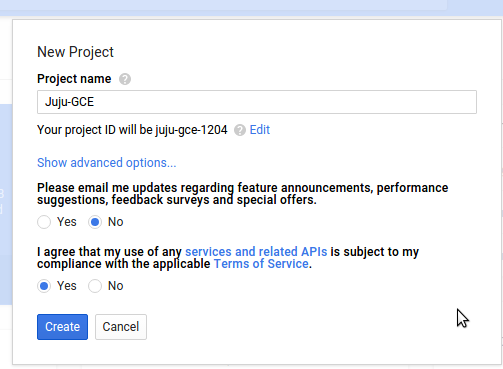
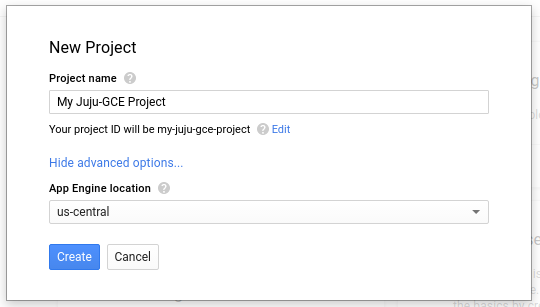
updated steps and graphics following changes at GCE

diff --git a/src/en/help-google.md b/src/en/help-google.md
@@ -33,18 +33,17 @@ manually in the GCE dashboard to prepare your account to work with Juju.
 
 Firstly, you should create a new project for Juju. If you have already used GCE 
 your existing projects will be listed in the pull-down menu with one being
-selected as your currently active project (here 'Juju-GCE'). The dialog is
-found at the top-right corner:
+selected as your currently active project (here 'My First Project'). The dialog is
+found near the top-right corner:
 
 ![create_gce_project_dropdown](./media/config-gce-new_project_dropdown.png)
 
-Enter some details. If you have already created a project in the past you
-may not see the extra two questions shown below:
+Enter a project name (here 'My Juju-GCE Project'):
 
 ![create_gce_project_details](./media/config-gce-first_project_create.png)
 
-The *project id* (used later) will be generated automatically. Use the 'Edit'
-button to change it.
+The *project id* (used later) will be generated automatically. Click 'Edit'
+to change it.
 
 ### Enable the GCE API
 
@@ -53,23 +52,28 @@ for Juju to communicate with it. This is done automatically if a "billing
 method" has been set up. By following the below steps you will discover whether
 you need to set up billing or not.
 
-At the top-left of the web UI there is an icon representing 'Product &
-services'. It is denoted by this icon:
+At the top-left of the web UI there is an icon representing 'Products &
+services'. It is denoted by this icon, next to the 'Google Cloud Platform'
+title:
 
 ![Product & services icon](./media/config-gce-product_services_icon.png)
 
 Click through and select 'API Manager'. By default you will be on the 'Overview'
-screen, it will show:
+screen, it will show this across the top:
 
 ![API Manager screen](./media/config-gce-api_manager.png)
 
-Select 'Compute Engine API' to get:
+Click '+Enable API':
+
+![Enable API](./media/config-gce-enable-api.png)
+
+From the list of available APIs, select 'Compute Engine API':
 
 ![Compute Engine API](./media/config-gce-api_manager_compute_enabled.png)
 
-The API is already enabled if the button displays 'Disable API'. If the button
-shows 'Enable API', clicking it may prompt you to set up a billing method (if
-not already done).
+On the top of the page that opens, click 'Enable'. If the API is already
+enabled, this will display 'Disable'. Clicking it may prompt you to set up a
+billing method (if not already done).
 
 ### Download credentials
 
@@ -79,7 +83,7 @@ from GCE.
 
 In the GCE web interface, navigate back to the 'API Manager' screen you used 
 above, and choose the 'Credentials' screen. By default you
-will be within the 'Credentials' tab. Click the 'New credentials' button and
+will be within the 'Credentials' tab. Click the 'Create credentials' button and
 choose 'Service account key' from the 3 options available:
 
 ![Create credentials dialog #1](./media/config-gce-api_manager_create_credentials-1.png)
@@ -98,8 +102,9 @@ the computer you downloaded the file to. We recommend storing this file in the
 default Juju directory, to ensure that it is with your other Juju files in 
 whatever system backups you perform.
 
-For the current example, say the file is called `Juju-GCE-f33a6cdbd8e3.json`
-(based on our project name of 'Juju-GCE'), on Ubuntu we would store it here:
+For the current example, say the file is called `My-Juju-GCE-Project-f33a6cdbd8e3.json`
+(based on our project name of 'My Juju-GCE Project'), on Ubuntu we would store
+it here:
 
 `~/.local/share/juju/Juju-GCE-f33a6cdbd8e3.json`
 
